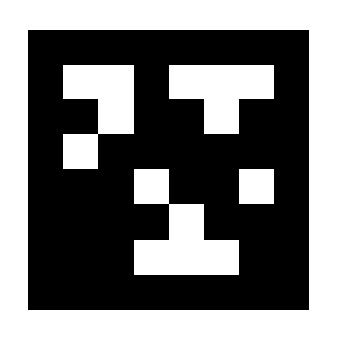
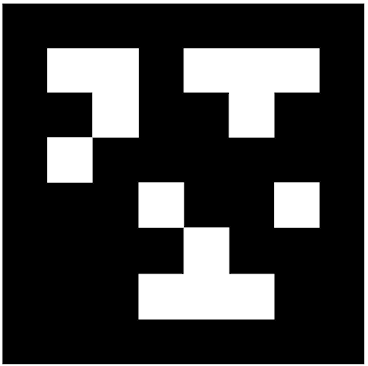
added markers around cards

diff --git a/src/App.js b/src/App.js
@@ -6,6 +6,8 @@ import CardsContainer from "./components/CardsContainer";
 import DownloadButton from "./components/DownloadButton";
 import arrowsX from "./components/markers/arrowsX.png";
 import arrowsY from "./components/markers/arrowsY.png";
+import cardsX from "./components/markers/cardsX.png";
+import cardsY from "./components/markers/cardsY.png";
 
 function App() {
   const [arrows, setArrows] = useState([]);
@@ -32,16 +34,20 @@ function App() {
   return (
     <>
       <div className="container">
+        <div className="cardsX">
+          <img src={cardsX} width="50px" alt="" />
+        </div>
         <CardsContainer
           addUserAnimationReactionTime={addUserAnimationReactionTime}
           addAnimations={addAnimations}
         />
-        {/* <div className="arrowMarkers"> */}
+        <div className="cardsY">
+          <img src={cardsY} width="50px" alt="" />
+        </div>
         <div className="arrowsY">
           <img src={arrowsY} width="50px" alt="" />
         </div>
 
-        {/* </div> */}
         <ArrowSquare
           addUserPress={addUserPress}
           addArrowChange={addArrowChange}

diff --git a/src/App.css b/src/App.css
@@ -69,15 +69,29 @@
   width: 50px;
   height: 50px;
   position: absolute;
-  bottom: 330px;
-  margin-left: 50px;
+  bottom: 325px;
+  margin-left: 10px;
 }
 .arrowsX {
   width: 50px;
   height: 50px;
   position: absolute;
-  left: 300px;
-  bottom: 95px;
+  left: 275px;
+  bottom: 10px;
   z-index: 3;
   size: 50px;
+}
+.cardsX {
+  width: 50px;
+  height: 50px;
+  position: absolute;
+  right: 400px;
+  top: 10px;
+}
+.cardsY {
+  width: 50px;
+  height: 50px;
+  position: absolute;
+  right: 10px;
+  top: 350px;
 }

diff --git a/gaze-visualisointi-test.py b/gaze-visualisointi-test.py
@@ -2,9 +2,11 @@ import csv
 import matplotlib.pyplot as plt
 import decimal
 
-#import numpy as np
+# import numpy as np
 #
-filename = "/Users/olli/Pupil/recordings/ollin-testi/01_no-animation/exports/000/fixations.csv"
+filename = (
+    "/Users/olli/Pupil/recordings/ollin-testi/01_no-animation/exports/000/fixations.csv"
+)
 with open(filename) as f:
     reader = csv.reader(f)
     header_row = next(reader)
@@ -12,27 +14,27 @@ with open(filename) as f:
 
     xs = []
     ys = []
-    for i in range (1,1000):
+    for i in range(1, 100):
         for row in reader:
-            if row[5] == '':
+            if row[5] == "":
                 continue
             x = float(row[5])
             d = decimal.Decimal(x)
-            c = round (d, 5)
+            c = round(d, 5)
             xs.append(c)
-            
-            if row[6] == '':
+
+            if row[6] == "":
                 continue
             y = float(row[6])
             r = decimal.Decimal(y)
             v = round(r, 5)
             ys.append(v)
 
-        
+    print(len(xs))
     print(xs[1:4])
-    
-    figure = plt.figure(figsize = (5,5))
-    plt.title('fixations_no-animation_000')
-    plt.xlabel('x')
-    plt.ylabel('y')
+
+    figure = plt.figure(figsize=(5, 5))
+    plt.title("fixations_no-animation_000")
+    plt.xlabel("x")
+    plt.ylabel("y")
     plt.scatter(xs, ys, alpha=0.15)
